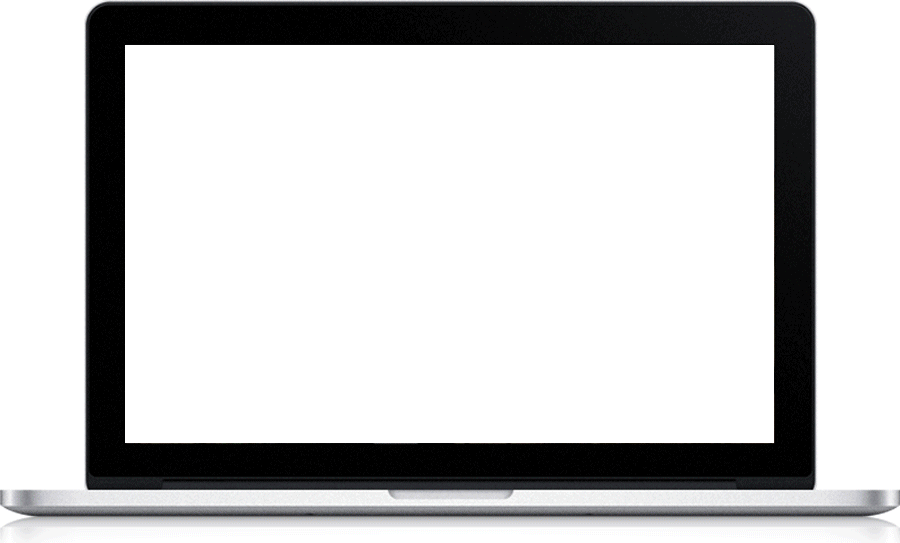
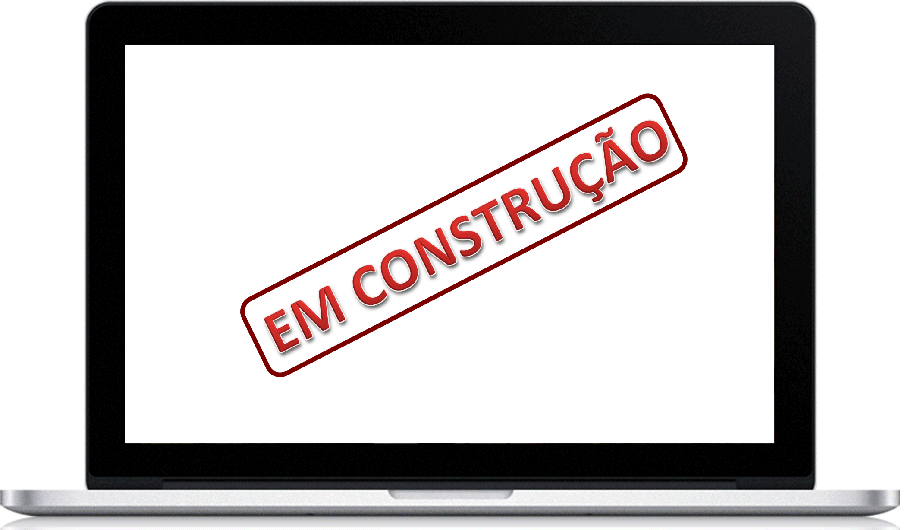
a
a

diff --git a/index.html b/index.html
@@ -12,7 +12,7 @@ License URL: http://creativecommons.org/licenses/by/3.0/
 <link rel="shortcut icon" href="favicon.ico" />
 <meta name="viewport" content="width=device-width, initial-scale=1">
 <meta http-equiv="Content-Type" content="text/html; charset=utf-8" />
-<!-- <script type="text/javascript" src="js/httpsredirect.js"></script> -->   sss
+<script type="text/javascript" src="js/httpsredirect.js"></script>    
 <script type="text/javascript" src="js/jquery.min.js"></script>
 <script type="text/javascript" src="js/move-top.js"></script>
 <script type="text/javascript" src="js/easing.js"></script>
@@ -75,7 +75,7 @@ License URL: http://creativecommons.org/licenses/by/3.0/
 		</div>
 	</div>
 	<!--start-slider-->
-	<div class="slider-bg">
+	<div class="slider-bg" style=" background-image: url('/images/mainpic3.png'); background-size: contain;background-origin: content-box;background-position: center; ">
 		<div class="container">
 			<div class="grid-1">
 				<div id="topic1" class="col-md-5 left-grid-1 wow bounceInLeft" data-wow-delay="0.4s">
@@ -84,16 +84,7 @@ License URL: http://creativecommons.org/licenses/by/3.0/
 					
 				</div>
 				<div class="col-md-7 right-grid-1 wow bounceInRight" data-wow-delay="0.7s">
-					<div class="slider">
-						<div class="callbacks_container">
-							<ul class="rslides" id="slider">
-								<li><img src="images/slide4.png" class="img-responsive" alt="" /></li>
-								<li><img src="images/slide2.png" class="img-responsive" alt="" /></li>
-								<li><img src="images/slide3.png" class="img-responsive" alt="" /></li>
-								<li><img src="images/slide1.png" class="img-responsive" alt="" /></li>
-							</ul>
-						</div>
-					</div>
+				
 				</div>
 				<script src="js/responsiveslides.min.js"></script>
 				<script>
@@ -152,7 +143,7 @@ License URL: http://creativecommons.org/licenses/by/3.0/
 				</div>
 			</div>
 			<div class="col-xs-12 col-sm-12 col-md-6 col-lg-6 image_voce" style="padding-left: 30px; padding-right: 30px;text-align: center;">
-					<img style=" border-radius: 25px; !important" src="images/slide1.png" alt="" class="image_middle" width="525px" height="260px !importabnt">
+					<img style=" border-radius: 5px; !important" src="images/variedade.png" alt="" class="image_middle" width="525px" height="260px !importabnt">
 			</div>
 		</div>
 		<br> <br>
@@ -327,7 +318,7 @@ License URL: http://creativecommons.org/licenses/by/3.0/
 			<div class="logo2  wow bounceInLeft" data-wow-delay="0.4s">
 				<a href="index.html"><img src="images/logo_horiz_fit.png" style="height: 50px" alt="" title="logo" /></a>
 			</div>
-			<p class="write  wow bounceInRight" data-wow-delay="0.4s">
+			<p class="write  wow bounceInRight " style="color: black" data-wow-delay="0.4s">
 				Copyright &copy; 2015 All rights Reserved | Template by &nbsp;<a href="http://w3layouts.com">W3layouts</a>
 			</p>
 		</div>

diff --git a/css/tragoaqui.css b/css/tragoaqui.css
@@ -52,6 +52,10 @@ body {
 }
 
 
+.copyright {
+    
+    background: #D4D4D4;
+}
 
 .left-grid-1 h1, .left-grid-1 h2, .left-grid-1 h3 {
 	width: 90% !important;
